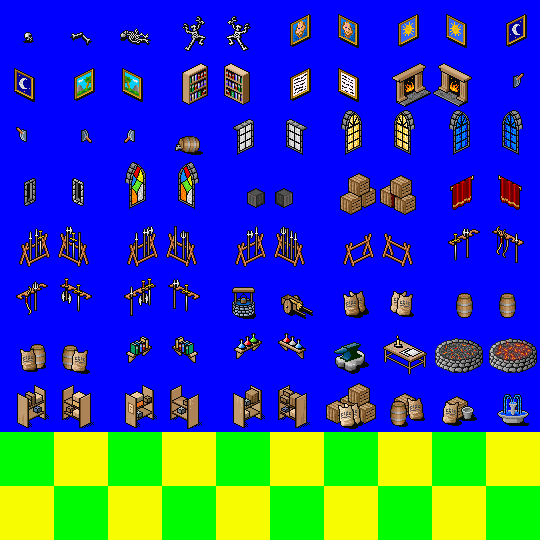
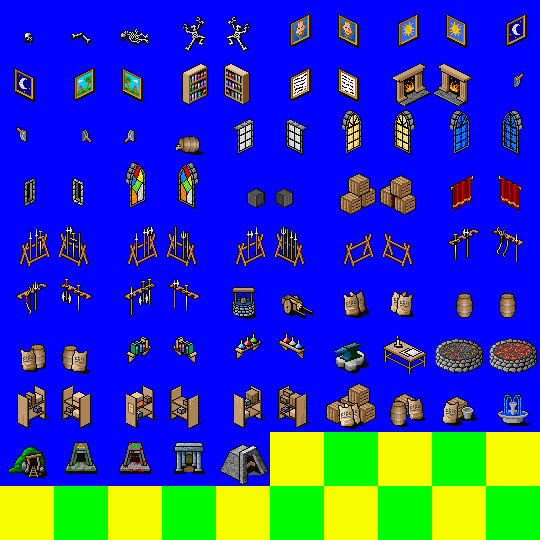
Added a proper dungeon entrance.

Changed region(s): [[0.0, 0.8, 0.5037, 0.9185]]

diff --git a/narrator/connections.py b/narrator/connections.py
@@ -15,8 +15,84 @@ import namegen
     as elements PREV and NEXT.
 """
 
-class DefaultGoDown( Plot ):
+class AbandonedMineEntrance( Plot ):
     LABEL = "CONNECT"
+    @classmethod
+    def matches( self, pstate ):
+        """Requires PREV and NEXT to exist, to not be wilderness, and for NEXT to not go up."""
+        return ( pstate.elements.get( "PREV" ) and pstate.elements.get( "NEXT" )
+         and context.MAP_WILDERNESS in pstate.elements["PREV"].desctags
+         and context.DES_CIVILIZED in pstate.elements["PREV"].desctags
+         and context.HAB_CAVE == pstate.elements["NEXT"].biome )
+
+    def custom_init( self, nart ):
+        prev = self.elements[ "PREV" ]
+        next = self.elements[ "NEXT" ]
+
+        myzone1 = self.register_element( "_P_ROOM", mapgen.MountainRoom(tags=(context.CIVILIZED,)), "PREV" )
+        myzone2 = self.register_element( "_N_ROOM", mapgen.SharpRoom(), "NEXT" )
+
+        stairs_1 = waypoints.MineEntrance()
+        stairs_2 = waypoints.GateDoor()
+
+        stairs_1.destination = next
+        stairs_1.otherside = stairs_2
+        stairs_2.destination = prev
+        stairs_2.otherside = stairs_1
+
+        myzone1.special_c["door"] = stairs_1
+        myzone2.contents.append( stairs_2 )
+        return True
+
+
+class DefaultDungeonEntrance( Plot ):
+    LABEL = "CONNECT"
+    @classmethod
+    def matches( self, pstate ):
+        """Requires PREV and NEXT to exist as wilderness and dungeon."""
+        return ( pstate.elements.get( "PREV" ) and pstate.elements.get( "NEXT" )
+         and context.MAP_WILDERNESS in pstate.elements["PREV"].desctags
+         and context.MAP_DUNGEON in pstate.elements["NEXT"].desctags )
+
+    def custom_init( self, nart ):
+        prev = self.elements[ "PREV" ]
+        next = self.elements[ "NEXT" ]
+
+        myzone1 = self.register_element( "_P_ROOM", mapgen.MountainRoom(), "PREV" )
+        myzone2 = self.register_element( "_N_ROOM", nart.get_map_generator( next ).DEFAULT_ROOM(), "NEXT" )
+
+        stairs_1 = waypoints.DungeonEntrance()
+        if context.MAP_GOUP in next.desctags:
+            if isinstance( myzone2, mapgen.SharpRoom ):
+                stairs_2 = waypoints.StairsDown()
+            else:
+                stairs_2 = waypoints.SpiralStairsDown()
+        else:
+            if isinstance( myzone2, mapgen.SharpRoom ):
+                stairs_2 = waypoints.StairsUp()
+            else:
+                stairs_2 = waypoints.SpiralStairsUp()
+
+        stairs_1.destination = next
+        stairs_1.otherside = stairs_2
+        stairs_2.destination = prev
+        stairs_2.otherside = stairs_1
+
+        myzone1.special_c["door"] = stairs_1
+        myzone2.contents.append( stairs_2 )
+        return True
+
+
+class DefaultGoUp( Plot ):
+    LABEL = "CONNECT"
+    @classmethod
+    def matches( self, pstate ):
+        """Requires PREV and NEXT to exist, to not be wilderness, and for NEXT to not go up."""
+        return ( pstate.elements.get( "PREV" ) and pstate.elements.get( "NEXT" )
+         and context.MAP_WILDERNESS not in pstate.elements["PREV"].desctags
+         and context.MAP_WILDERNESS not in pstate.elements["NEXT"].desctags
+         and context.MAP_GODOWN not in pstate.elements["NEXT"].desctags )
+
     def custom_init( self, nart ):
         prev = self.elements[ "PREV" ]
         next = self.elements[ "NEXT" ]
@@ -24,8 +100,59 @@ class DefaultGoDown( Plot ):
         myzone1 = self.register_element( "_P_ROOM", nart.get_map_generator( prev ).DEFAULT_ROOM(), "PREV" )
         myzone2 = self.register_element( "_N_ROOM", nart.get_map_generator( next ).DEFAULT_ROOM(), "NEXT" )
 
-        stairs_1 = waypoints.SpiralStairsDown()
-        stairs_2 = waypoints.SpiralStairsUp()
+        # Depending on whether we're going to a sharp room (with a guaranteed
+        # border wall) or another room type, either go with the wall-mounted
+        # default stairs or the free-standing spiral stairs.
+        if isinstance( myzone1, mapgen.SharpRoom ):
+            stairs_1 = waypoints.StairsUp()
+        else:
+            stairs_1 = waypoints.SpiralStairsUp()
+
+        if isinstance( myzone2, mapgen.SharpRoom ):
+            stairs_2 = waypoints.StairsDown()
+        else:
+            stairs_2 = waypoints.SpiralStairsDown()
+
+        stairs_1.destination = next
+        stairs_1.otherside = stairs_2
+        stairs_2.destination = prev
+        stairs_2.otherside = stairs_1
+
+        myzone1.contents.append( stairs_1 )
+        myzone2.contents.append( stairs_2 )
+        return True
+
+
+class DefaultGoDown( Plot ):
+    LABEL = "CONNECT"
+    @classmethod
+    def matches( self, pstate ):
+        """Requires PREV and NEXT to exist, to not be wilderness, and for NEXT to not go up."""
+        return ( pstate.elements.get( "PREV" ) and pstate.elements.get( "NEXT" )
+         and context.MAP_WILDERNESS not in pstate.elements["PREV"].desctags
+         and context.MAP_WILDERNESS not in pstate.elements["NEXT"].desctags
+         and context.MAP_GOUP not in pstate.elements["NEXT"].desctags )
+
+    def custom_init( self, nart ):
+        prev = self.elements[ "PREV" ]
+        next = self.elements[ "NEXT" ]
+
+        myzone1 = self.register_element( "_P_ROOM", nart.get_map_generator( prev ).DEFAULT_ROOM(), "PREV" )
+        myzone2 = self.register_element( "_N_ROOM", nart.get_map_generator( next ).DEFAULT_ROOM(), "NEXT" )
+
+        # Depending on whether we're going to a sharp room (with a guaranteed
+        # border wall) or another room type, either go with the wall-mounted
+        # default stairs or the free-standing spiral stairs.
+        if isinstance( myzone1, mapgen.SharpRoom ):
+            stairs_1 = waypoints.StairsDown()
+        else:
+            stairs_1 = waypoints.SpiralStairsDown()
+
+        if isinstance( myzone2, mapgen.SharpRoom ):
+            stairs_2 = waypoints.StairsUp()
+        else:
+            stairs_2 = waypoints.SpiralStairsUp()
+
         stairs_1.destination = next
         stairs_1.otherside = stairs_2
         stairs_2.destination = prev

diff --git a/context.py b/context.py
@@ -32,9 +32,9 @@ PROPP_NONE, PROPP_ABSENTATION, PROPP_INTERDICTION, PROPP_VIOLATION = range( 4 )
 
 ENTRANCE, GOAL, CIVILIZED = range( 3 )
 
-# **************************************
-# ***   Monster  Description  Tags   ***
-# **************************************
+# ******************************************
+# ***   Map/Monster  Description  Tags   ***
+# ******************************************
 #
 # When selecting a monster, the candidate must match the scene habitat or EVERY,
 # and should match at least one more tag in the scene description. If a monster
@@ -43,24 +43,27 @@ ENTRANCE, GOAL, CIVILIZED = range( 3 )
 # Habitat Tags- Linked to map generator
 HAB_EVERY, HAB_FOREST, HAB_CAVE, HAB_BUILDING = range( 4 )
 
+# Map Type- not exactly habitat, but kind of related?
+MAP_WILDERNESS, MAP_DUNGEON, MAP_GOUP, MAP_GODOWN = range( 50,54 )
+
 # Setting Tags
-SET_EVERY, SET_RENFAN = range( 100,102 )
+SET_EVERY, SET_RENFAN = range( 1000,1002 )
 
 # Description Tags- Linked to map sprite set and maybe map generator
 DES_EARTH, DES_AIR, DES_WATER, DES_FIRE, DES_SOLAR, DES_LUNAR, \
-  DES_ICE, DES_CIVILIZED = range(200,208)
+  DES_ICE, DES_CIVILIZED = range(1200,1208)
 
 # Type Tags
 #  MTY_UNDEAD can be summoned by Necromancer spells
 #  MTY_CREATURE can be summoned by Druid spells
 MTY_BEAST, MTY_HUMANOID, MTY_FIGHTER, MTY_THIEF, MTY_PRIEST, MTY_MAGE, \
-    MTY_UNDEAD, MTY_CREATURE, MTY_LEADER = range(300,309)
+    MTY_UNDEAD, MTY_CREATURE, MTY_LEADER = range(1300,1309)
 
 # Genus Tags. Note that these don't necessarily correspond to templates- a
 #  necromancer monster may be grouped with the undead, despite not being undead
 #  itself. Also a monster can have more than one genus because in Python we
 #  believe in multiple inheritence.
-GEN_GIANT, GEN_GOBLIN, GEN_CHAOS, GEN_UNDEAD, GEN_NATURE, GEN_DRAGON = range( 400,406 )
+GEN_GIANT, GEN_GOBLIN, GEN_CHAOS, GEN_UNDEAD, GEN_NATURE, GEN_DRAGON = range( 1400,1406 )
 
 def matches_description( context_set, desc_request ):
     # context_set is a list of context tags.

diff --git a/narrator/citystuff.py b/narrator/citystuff.py
@@ -12,6 +12,55 @@ import teams
 import characters
 import random
 
+#
+#   **********************
+#   ***   CITY_SCENE   ***
+#   **********************
+#
+#  Create a new scene with a city in it. Register the following elements:
+#   SCENE: The new scene
+#   CITY: The map feature containing the city
+#   ENTRANCE: A waypoint for starting in/teleporting into the city
+#
+#  The city and map need to be populated, as well.
+#
+
+class CityOnEdgeOfCiv( Plot ):
+    LABEL = "CITY_SCENE"
+    def custom_init( self, nart ):
+        """Create map, fill with city + services."""
+        myscene = maps.Scene( 100, 100, sprites={maps.SPRITE_WALL: "terrain_wall_lightbrick.png"},
+            biome=context.HAB_FOREST, setting=self.setting,
+            desctags=(context.MAP_WILDERNESS,context.DES_CIVILIZED,) )
+        mymapgen = mapgen.EdgeOfCivilization( myscene )
+        self.register_scene( nart, myscene, mymapgen, ident="SCENE" )
+
+        castle = self.register_element( "CITY", mapgen.CastleRoom( width=35,height=35,tags=(context.CIVILIZED,), parent=myscene ) )
+        myroom = mapgen.FuzzyRoom( tags=(context.ENTRANCE,), parent=castle )
+        myteam = teams.Team( strength=0, default_reaction=characters.SAFELY_FRIENDLY)
+        castle.contents.append( myteam )
+        myent = waypoints.Well()
+        myroom.contents.append( myent )
+        myroom.contents.append( monsters.generate_npc(team=myteam) )
+        myroom.contents.append( monsters.generate_npc(team=myteam) )
+
+        self.register_element( "ENTRANCE", myent )
+
+        self.add_sub_plot( nart, "CITY_GENERALSTORE" )
+        self.add_sub_plot( nart, "CITY_WEAPONSHOP" )
+        self.add_sub_plot( nart, "CITY_LIBRARY" )
+        self.add_sub_plot( nart, "CITY_INN" )
+        self.add_sub_plot( nart, "CITY_TEMPLE" )
+        for t in range( random.randint(4,9) ):
+            self.add_sub_plot( nart, "ENCOUNTER" )
+
+        return True
+
+
+
+
+
+
 #  *****************************
 #  ***   CITY_GENERALSTORE   ***
 #  *****************************

diff --git a/narrator/intros.py b/narrator/intros.py
@@ -72,41 +72,6 @@ class BalrogMovesIntoTown( Plot ):
             explo.alert( "Unfortunately, the arrival of a fearsome monster has shattered the peace. Now the people of {0} live in fear, waiting for a hero to deliver them from this terror.".format( city.name ) )
             self.do_message = False
 
-class CityOnEdgeOfCiv( Plot ):
-    LABEL = "CITY_SCENE"
-    def custom_init( self, nart ):
-        """Create map, fill with city + services."""
-        myscene = maps.Scene( 100, 100, sprites={maps.SPRITE_WALL: "terrain_wall_lightbrick.png"},
-            biome=context.HAB_FOREST, setting=self.setting, desctags=(context.DES_CIVILIZED,) )
-        mymapgen = mapgen.EdgeOfCivilization( myscene )
-        self.register_scene( nart, myscene, mymapgen, ident="SCENE" )
-
-        castle = self.register_element( "CITY", mapgen.CastleRoom( width=35,height=35,tags=(context.CIVILIZED,), parent=myscene ) )
-        myroom = mapgen.FuzzyRoom( tags=(context.ENTRANCE,), parent=castle )
-        myteam = teams.Team( strength=0, default_reaction=characters.SAFELY_FRIENDLY)
-        castle.contents.append( myteam )
-        myent = waypoints.Well()
-        myroom.contents.append( myent )
-        myroom.contents.append( monsters.generate_npc(team=myteam) )
-        myroom.contents.append( monsters.generate_npc(team=myteam) )
-
-        self.register_element( "ENTRANCE", myent )
-
-        self.add_sub_plot( nart, "CITY_GENERALSTORE" )
-        self.add_sub_plot( nart, "CITY_WEAPONSHOP" )
-        self.add_sub_plot( nart, "CITY_LIBRARY" )
-        self.add_sub_plot( nart, "CITY_INN" )
-        self.add_sub_plot( nart, "CITY_TEMPLE" )
-        self.add_sub_plot( nart, "ENCOUNTER" )
-        self.add_sub_plot( nart, "ENCOUNTER" )
-        self.add_sub_plot( nart, "ENCOUNTER" )
-        self.add_sub_plot( nart, "ENCOUNTER" )
-        self.add_sub_plot( nart, "ENCOUNTER" )
-
-        return True
-
-
-
 
 
 

diff --git a/mapgen.py b/mapgen.py
@@ -704,6 +704,8 @@ class BuildingRoom( Room ):
 
 class BottleneckRoom( Room ):
     """A room that blocks passage, aside from one door."""
+    # special_c components:
+    #  "door": The waypoint to be placed in the dividing wall
     def render( self, gb ):
         myrect = self.area.inflate(-2,-2)
         for x in range( myrect.x, myrect.x + myrect.width ):
@@ -724,6 +726,26 @@ class BottleneckRoom( Room ):
         door_wp = self.special_c.get( "door", None )
         if door_wp:
             door_wp.place( gb, (x,y) )
+
+class MountainRoom( Room ):
+    """A fuzzy room with a mountain in it."""
+    # special_c components:
+    #  "door": A cave or mine entrance to be placed on the mountain.
+    def render( self, gb ):
+        # Step Five: Actually draw the room, taking into account terrain already on map.
+        for x in range( self.area.x+1, self.area.x + self.area.width-1 ):
+            for y in range( self.area.y+1, self.area.y + self.area.height-1 ):
+                self.draw_fuzzy_ground( gb, x, y )
+        x,y = self.area.center
+        gb.map[x][y].wall = maps.MOUNTAIN_TOP
+        gb.map[x+1][y].wall = maps.MOUNTAIN_RIGHT
+        gb.map[x][y+1].wall = maps.MOUNTAIN_LEFT
+        gb.map[x+1][y+1].wall = maps.MOUNTAIN_BOTTOM
+        door_wp = self.special_c.get( "door", None )
+        if door_wp:
+            door_wp.place( gb, (x+1,y+1) )
+
+
 
 #  *****************************
 #  ***   SCENE  GENERATORS   ***

diff --git a/maps.py b/maps.py
@@ -301,6 +301,11 @@ FORGE = WaterTerrain( "FORGE", frame = 68, spritesheet = SPRITE_DECOR )
 BIG_SHELF = OnTheWallVariable( "BIG_SHELF", frames = (70,72,74) )
 PILED_GOODS = VariableTerrain( "PILED_GOODS", spritesheet = SPRITE_DECOR, block_walk=True, frames = (76,77,78) )
 FOUNTAIN = SingTerrain( "FOUNTAIN", spritesheet = SPRITE_DECOR, frame = 79, block_walk=True )
+MINE_ENTRANCE = SingTerrain( "MINE_ENTRANCE", spritesheet = SPRITE_DECOR, frame = 80, block_walk=True )
+DUNGEON_ENTRANCE = SingTerrain( "DUNGEON_ENTRANCE", spritesheet = SPRITE_DECOR, frame = 81, block_walk=True )
+CRYPT_ENTRANCE = SingTerrain( "CRYPT_ENTRANCE", spritesheet = SPRITE_DECOR, frame = 82, block_walk=True )
+RUIN_ENTRANCE = SingTerrain( "RUIN_ENTRANCE", spritesheet = SPRITE_DECOR, frame = 83, block_walk=True )
+SECRET_ENTRANCE = SingTerrain( "SECRET_ENTRANCE", spritesheet = SPRITE_DECOR, frame = 84, block_walk=True )
 
 BED_HEAD = BedHeadTerrain( "BED_HEAD", block_walk=True, frame=2 )
 BED_FOOT = BedFootTerrain( "BED_FOOT", block_walk=True, frame=4, partner=BED_HEAD )

diff --git a/waypoints.py b/waypoints.py
@@ -81,16 +81,14 @@ class StairsDown( SpiralStairsUp ):
     TILE = maps.Tile( None, maps.STAIRS_DOWN, None )
     ATTACH_TO_WALL = True
 
-class SpiralStairsDown( Waypoint ):
+class SpiralStairsDown( SpiralStairsUp ):
     TILE = maps.Tile( None, maps.SPIRAL_STAIRS_DOWN, None )
-    destination = None
-    otherside = None
-    def bump( self, explo ):
-        if self.destination and self.otherside:
-            explo.camp.destination = self.destination
-            explo.camp.entrance = self.otherside
-        else:
-            explo.alert( "You have just bumped the stairs. Woohoo!" )
+
+class MineEntrance( SpiralStairsUp ):
+    TILE = maps.Tile( None, None, maps.MINE_ENTRANCE )
+
+class DungeonEntrance( SpiralStairsUp ):
+    TILE = maps.Tile( None, None, maps.DUNGEON_ENTRANCE )
 
 class PuzzleDoor( Waypoint ):
     TILE = maps.Tile( None, maps.CLOSED_DOOR, None )

diff --git a/narrator/dungeonlevel.py b/narrator/dungeonlevel.py
@@ -24,7 +24,8 @@ class CaveLevel( Plot ):
     def custom_init( self, nart ):
         myscene = maps.Scene( 75, 75, 
             sprites={maps.SPRITE_WALL: "terrain_wall_cave.png", maps.SPRITE_GROUND: "terrain_ground_cthonic.png", maps.SPRITE_FLOOR: "terrain_floor_gravel.png"},
-            biome=context.HAB_CAVE, setting=self.setting, desctags=(context.DES_EARTH,) )
+            biome=context.HAB_CAVE, setting=self.setting,
+            desctags=(context.MAP_DUNGEON,context.MAP_GODOWN,context.DES_EARTH) )
         mymapgen = mapgen.CaveScene( myscene )
         self.register_scene( nart, myscene, mymapgen, ident="SCENE" )
 
